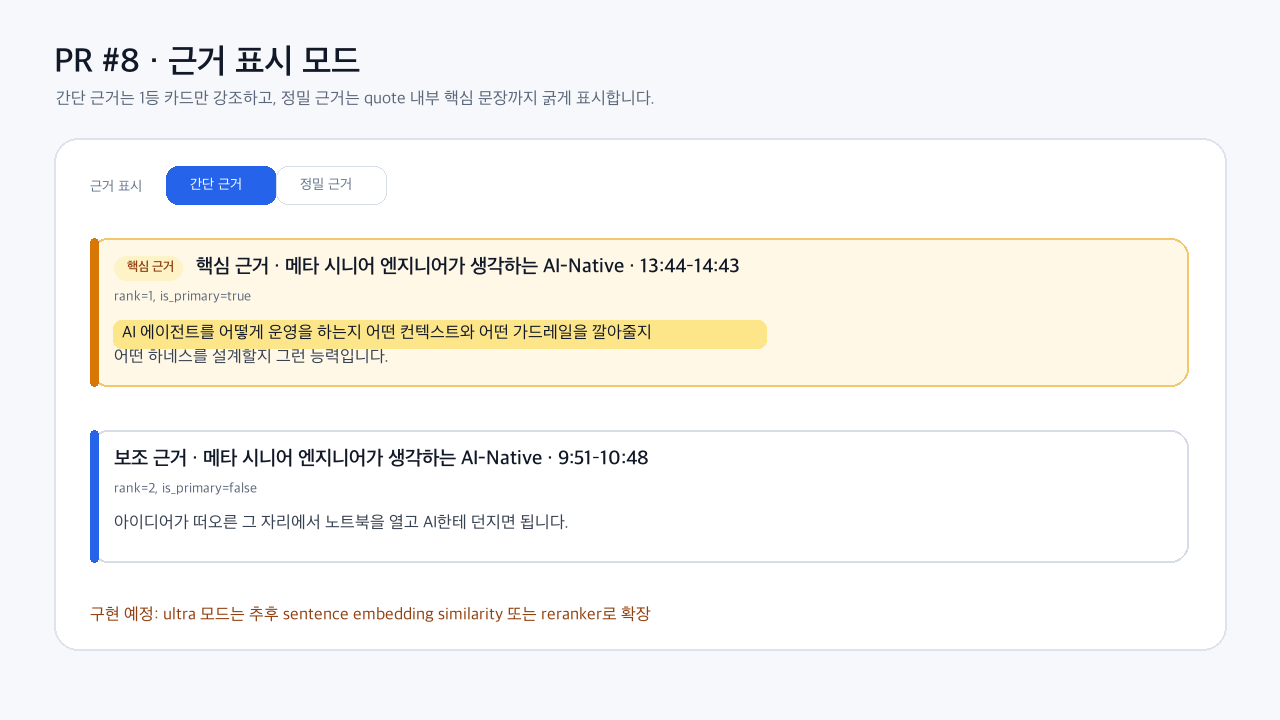
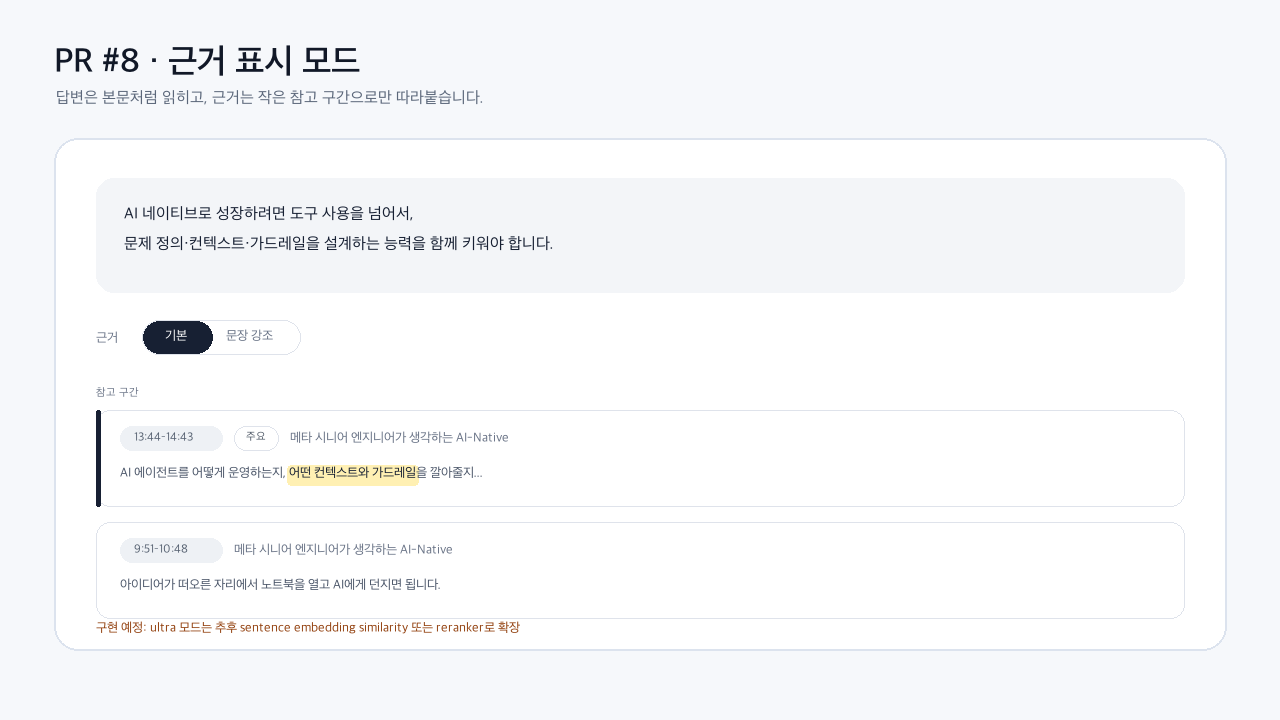
Refine evidence card UI

Changed region(s): [[0.0625, 0.2139, 0.9375, 0.55], [0.0625, 0.5806, 0.5, 0.8861], [0.0312, 0.1222, 0.5, 0.1528]]

diff --git a/app/static/index.html b/app/static/index.html
@@ -18,9 +18,9 @@
     .empty { color:var(--muted); padding:20px 16px; font-size:13px; } .controls { display:flex; gap:8px; margin-top:10px; } .block { margin-bottom:20px; }
     .tag { display:inline-block; border-radius:999px; padding:2px 7px; font-size:11px; font-weight:650; background:#eef1f5; color:#556070; } .tag.ready { background:#e9f7ef; color:#19703b; } .tag.failed { background:#fff0ef; color:var(--danger); }
     .video-header { padding:16px; border-bottom:1px solid var(--line); } .video-header a { color:var(--accent); text-decoration:none; font-size:13px; } .analysis-note { font-size:13px; color:var(--muted); margin:10px 0; }
-    .result { display:block; text-decoration:none; } .score { float:right; color:var(--muted); font-size:12px; } .evidence { border-left:3px solid var(--accent); padding:10px 12px; margin-top:10px; background:#f8fbff; } .evidence.primary { border-color:#b7791f; background:#fff8e6; } .evidence a { color:var(--accent); font-weight:650; text-decoration:none; } .evidence .badge { display:inline-block; margin-right:6px; border-radius:999px; padding:1px 6px; background:#fef3c7; color:#92400e; font-size:11px; font-weight:700; } .highlight { font-weight:750; color:#111827; }
+    .result { display:block; text-decoration:none; } .score { float:right; color:var(--muted); font-size:12px; } .evidence-list { margin-top:8px; } .evidence-title { margin:0 0 6px; color:var(--muted); font-size:11px; font-weight:700; letter-spacing:.08em; text-transform:uppercase; } .evidence { display:block; border:1px solid var(--line); border-radius:12px; padding:9px 11px; margin-top:7px; background:#fff; text-decoration:none; color:var(--ink); transition:background .15s,border-color .15s; } .evidence:hover { background:#f8fafc; border-color:#c9d1de; } .evidence.primary { box-shadow:inset 2px 0 0 rgba(23,32,51,.32); } .evidence-head { display:flex; align-items:center; gap:6px; min-width:0; } .evidence-time { display:inline-flex; align-items:center; border-radius:999px; padding:1px 7px; background:#eef1f5; color:#556070; font-family:ui-monospace,SFMono-Regular,Menlo,monospace; font-size:11px; } .evidence .badge { display:inline-block; border:1px solid var(--line); border-radius:999px; padding:1px 6px; color:#4b5563; font-size:10px; font-weight:650; } .evidence-source { overflow:hidden; text-overflow:ellipsis; white-space:nowrap; color:var(--muted); font-size:12px; } .evidence-quote { display:block; margin-top:6px; color:#4a5568; font-size:12px; line-height:1.55; } .highlight { font-weight:700; color:var(--ink); background:linear-gradient(transparent 58%, #fff0b3 0); }
     .chat-log { max-height:440px; overflow-y:auto; } .msg { padding:9px 12px; border-radius:10px; margin-bottom:10px; white-space:pre-wrap; } .msg.user { background:var(--soft); margin-left:28px; } .msg.assistant { background:#f3f5f8; margin-right:28px; }
-    .segmented { display:inline-flex; border:1px solid var(--line); border-radius:8px; overflow:hidden; } .segmented button { border-radius:0; background:#fff; color:var(--muted); padding:6px 10px; font-size:12px; } .segmented button.active { background:var(--accent); color:#fff; }
+    .segmented { display:inline-flex; border:1px solid var(--line); border-radius:999px; overflow:hidden; background:#fff; } .segmented button { border-radius:0; background:#fff; color:var(--muted); padding:5px 10px; font-size:12px; font-weight:600; } .segmented button.active { background:var(--ink); color:#fff; }
     #toast { position:fixed; bottom:22px; left:50%; transform:translateX(-50%); background:#172033; color:#fff; padding:10px 14px; border-radius:7px; font-size:13px; display:none; max-width:90vw; }
     @media (max-width: 980px) { main { grid-template-columns:230px 1fr; } #chat-panel { grid-column:1 / -1; } }
     @media (max-width: 650px) { header { padding:0 16px; } main { display:block; padding:12px; } section { margin-bottom:12px; } }
@@ -56,7 +56,7 @@
         <div class="block">
           <label for="chat-query" class="name">RAG 질문</label>
           <p class="analysis-note">분석 완료된 자막에서 근거 구간을 최대 3개 반환합니다. 최근 3턴의 대화 맥락이 유지됩니다.</p>
-          <div class="controls"><span class="meta">근거 표시</span><div class="segmented" role="group" aria-label="근거 표시 모드"><button type="button" id="mode-simple" class="active">간단 근거</button><button type="button" id="mode-precise">정밀 근거</button></div></div>
+          <div class="controls"><span class="meta">근거</span><div class="segmented" role="group" aria-label="근거 표시 모드"><button type="button" id="mode-simple" class="active">기본</button><button type="button" id="mode-precise">문장 강조</button></div></div>
           <form id="chat-form"><input id="chat-query" placeholder="영상에서 RAG 구축 순서를 설명해줘"><button>질문</button></form>
           <div id="answer" class="chat-log"></div>
         </div>
@@ -156,7 +156,11 @@
       if (index < 0) return esc(quote);
       return `${esc(quote.slice(0, index))}<span class="highlight">${esc(highlight)}</span>${esc(quote.slice(index + highlight.length))}`;
     }
-    function evidenceHtml(evidence = []) { return evidence.map(item => `<div class="evidence ${item.is_primary ? 'primary' : ''}">${item.is_primary ? '<span class="badge">핵심 근거</span>' : ''}<a href="${esc(playbackUrl(item.url))}" target="_blank" rel="noreferrer">${esc(item.title)} · ${Math.floor(item.start_seconds / 60)}:${String(Math.floor(item.start_seconds % 60)).padStart(2,'0')}–${Math.floor(item.end_seconds / 60)}:${String(Math.floor(item.end_seconds % 60)).padStart(2,'0')}</a><br><span class="meta">${highlightedQuote(item)}</span></div>`).join(''); }
+    function evidenceHtml(evidence = []) {
+      if (!evidence.length) return '';
+      const rows = evidence.map(item => `<a class="evidence ${item.is_primary ? 'primary' : ''}" href="${esc(playbackUrl(item.url))}" target="_blank" rel="noreferrer"><span class="evidence-head"><span class="evidence-time">${Math.floor(item.start_seconds / 60)}:${String(Math.floor(item.start_seconds % 60)).padStart(2,'0')}–${Math.floor(item.end_seconds / 60)}:${String(Math.floor(item.end_seconds % 60)).padStart(2,'0')}</span>${item.is_primary ? '<span class="badge">주요</span>' : ''}<span class="evidence-source">${esc(item.title)}</span></span><span class="evidence-quote">${highlightedQuote(item)}</span></a>`).join('');
+      return `<div class="evidence-list"><p class="evidence-title">참고 구간</p>${rows}</div>`;
+    }
     function renderLog(stickToBottom = true) {
       const container = byId('answer');
       if (!chatTurns.length) { container.innerHTML = '<p class="empty">아직 대화 기록이 없습니다. 질문을 입력해 보세요.</p>'; return; }

diff --git a/web/src/components/ChatPanel.tsx b/web/src/components/ChatPanel.tsx
@@ -248,35 +248,38 @@ export function ChatPanel({ workspaceCode, videoId, onSeek, onError }: Props) {
 
               {/* 근거 구간 */}
               {turn.evidence.length > 0 && (
-                <div className="space-y-2">
-                  <p className="text-xs font-medium text-muted-foreground">근거 구간</p>
-                  <ul className="space-y-2">
+                <div className="space-y-1.5">
+                  <div className="flex items-center justify-between">
+                    <p className="text-[0.72rem] font-medium uppercase tracking-[0.08em] text-muted-foreground">
+                      참고 구간
+                    </p>
+                    <p className="text-[0.72rem] text-muted-foreground">클릭하면 영상 위치로 이동</p>
+                  </div>
+                  <ul className="space-y-1.5">
                     {turn.evidence.map((item) => (
                       <li key={`${item.video_id}-${item.start_seconds}`}>
                         <button
                           type="button"
                           onClick={() => seekTo(item)}
-                          className={`group w-full rounded-lg border p-2.5 text-left transition-colors hover:border-primary/60 hover:bg-accent ${
+                          className={`group w-full rounded-xl border px-3 py-2 text-left transition-colors hover:border-foreground/20 hover:bg-muted/40 ${
                             item.is_primary
-                              ? 'border-amber-300 bg-amber-50/80'
-                              : 'border-border/60 bg-card'
+                              ? 'border-foreground/15 bg-background shadow-[inset_2px_0_0_hsl(var(--foreground)/0.28)]'
+                              : 'border-border/60 bg-background/70'
                           }`}
                         >
-                          <div className="flex items-center gap-2">
-                            <span className="grid size-7 shrink-0 place-items-center rounded-md bg-primary/15 text-primary group-hover:bg-primary group-hover:text-primary-foreground">
-                              <Play className="size-3.5" />
+                          <div className="flex items-center gap-2 text-xs">
+                            <span className="inline-flex items-center gap-1 rounded-full bg-muted px-2 py-0.5 font-mono text-[0.68rem] text-muted-foreground">
+                              <Play className="size-3" />
+                              {formatTimestamp(item.start_seconds)}–{formatTimestamp(item.end_seconds)}
                             </span>
                             {item.is_primary && (
-                              <span className="rounded-full bg-amber-100 px-1.5 py-0.5 text-[0.65rem] font-semibold text-amber-800">
-                                핵심
+                              <span className="rounded-full border border-border/70 px-1.5 py-0.5 text-[0.65rem] font-medium text-foreground/70">
+                                주요
                               </span>
                             )}
-                            <span className="truncate text-xs font-medium">{item.title}</span>
-                            <span className="ml-auto shrink-0 font-mono text-xs text-muted-foreground">
-                              {formatTimestamp(item.start_seconds)} – {formatTimestamp(item.end_seconds)}
-                            </span>
+                            <span className="min-w-0 truncate text-muted-foreground">{item.title}</span>
                           </div>
-                          <p className="mt-1.5 line-clamp-2 text-xs text-muted-foreground">
+                          <p className="mt-1.5 line-clamp-2 text-xs leading-relaxed text-foreground/75">
                             {quoteWithHighlight(item)}
                           </p>
                         </button>
@@ -293,25 +296,25 @@ export function ChatPanel({ workspaceCode, videoId, onSeek, onError }: Props) {
       {/* 입력 */}
       <div className="border-t border-border/60 p-3">
         <div className="mb-2 flex items-center gap-2">
-          <span className="text-xs text-muted-foreground">근거 표시</span>
-          <div className="inline-flex overflow-hidden rounded-lg border border-border/70">
+          <span className="text-xs text-muted-foreground">근거</span>
+          <div className="inline-flex overflow-hidden rounded-full border border-border/70 bg-background">
             <Button
               type="button"
-              variant={evidenceMode === 'simple' ? 'default' : 'ghost'}
+              variant="ghost"
               size="xs"
-              className="rounded-none"
+              className={`rounded-none px-3 ${evidenceMode === 'simple' ? 'bg-foreground text-background hover:bg-foreground/90 hover:text-background' : 'text-muted-foreground'}`}
               onClick={() => setEvidenceMode('simple')}
             >
-              간단 근거
+              기본
             </Button>
             <Button
               type="button"
-              variant={evidenceMode === 'precise' ? 'default' : 'ghost'}
+              variant="ghost"
               size="xs"
-              className="rounded-none"
+              className={`rounded-none px-3 ${evidenceMode === 'precise' ? 'bg-foreground text-background hover:bg-foreground/90 hover:text-background' : 'text-muted-foreground'}`}
               onClick={() => setEvidenceMode('precise')}
             >
-              정밀 근거
+              문장 강조
             </Button>
           </div>
         </div>
